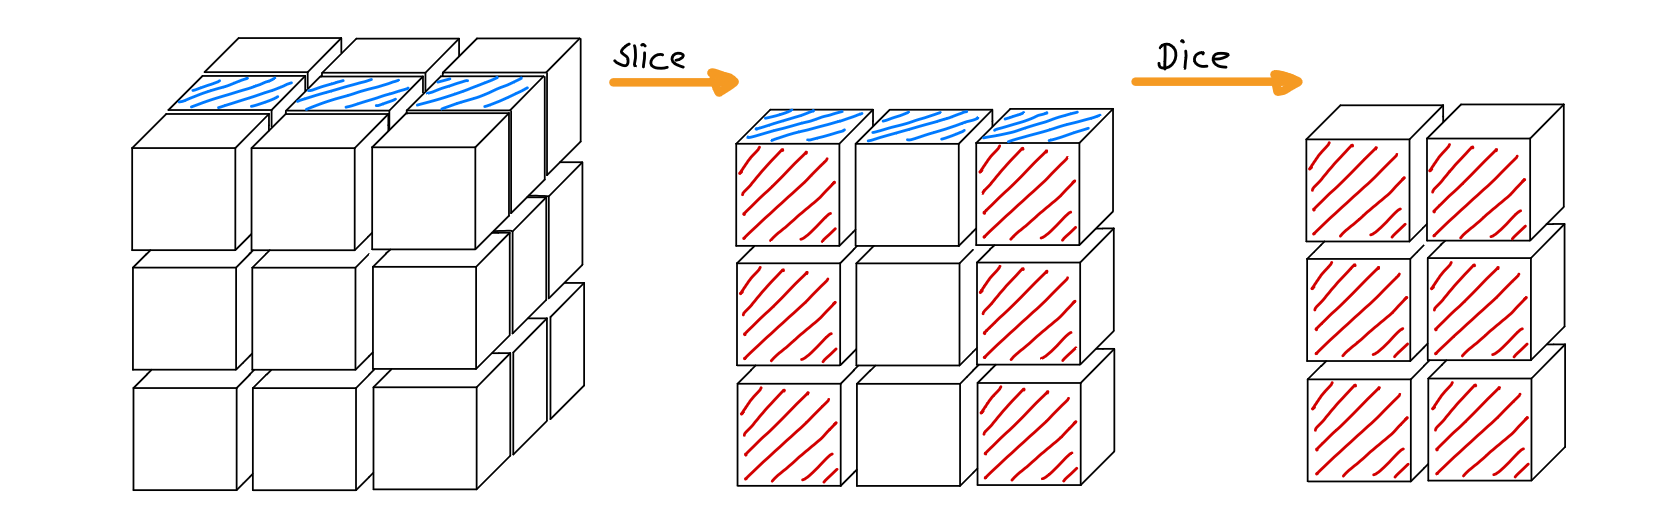
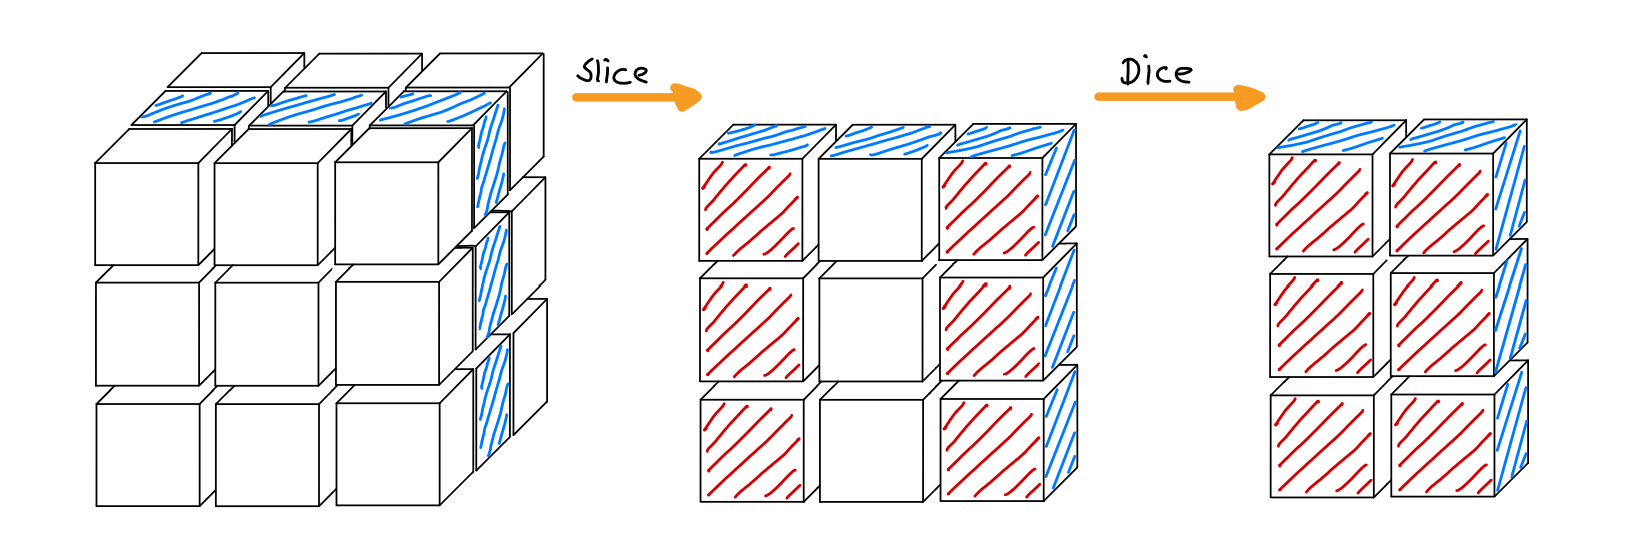
slice/dice fixes

Changed region(s): [[0.4023, 0.0602, 0.8046, 0.9323], [0.0619, 0.0602, 0.4642, 0.9323], [0.7737, 0.1805, 0.9593, 0.9323]]

diff --git a/docs/ds-study/de1/structured.md b/docs/ds-study/de1/structured.md
@@ -78,9 +78,9 @@
 
 !!! info
 
-    **Slice** - Selection of one or more Dimensions
+    **Slice** - Selection of one slice of a Dimension
 
-    **Dice** - Selection of one or more Dimensions and one or more Members
+    **Dice** - Selection of one or more slices of multiple Dimensions
 
 ![Slice & Dice](./images/slice-dice.png)
 
